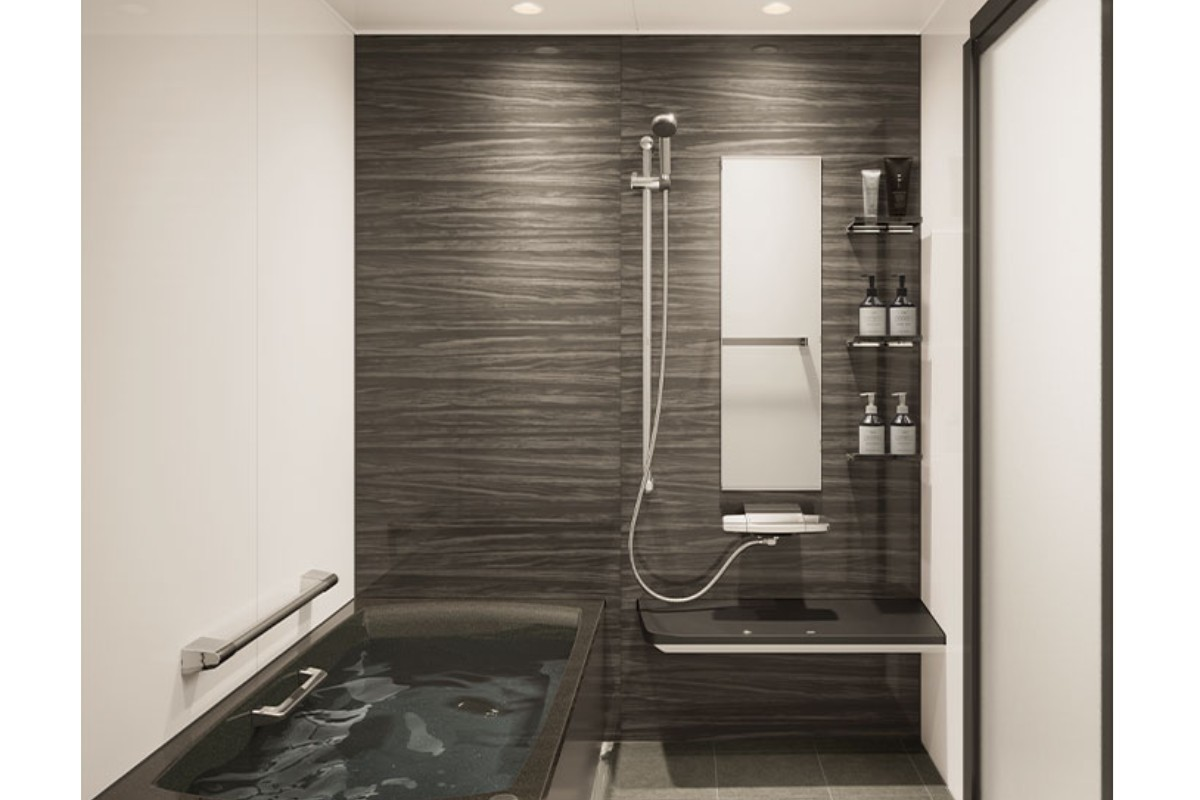
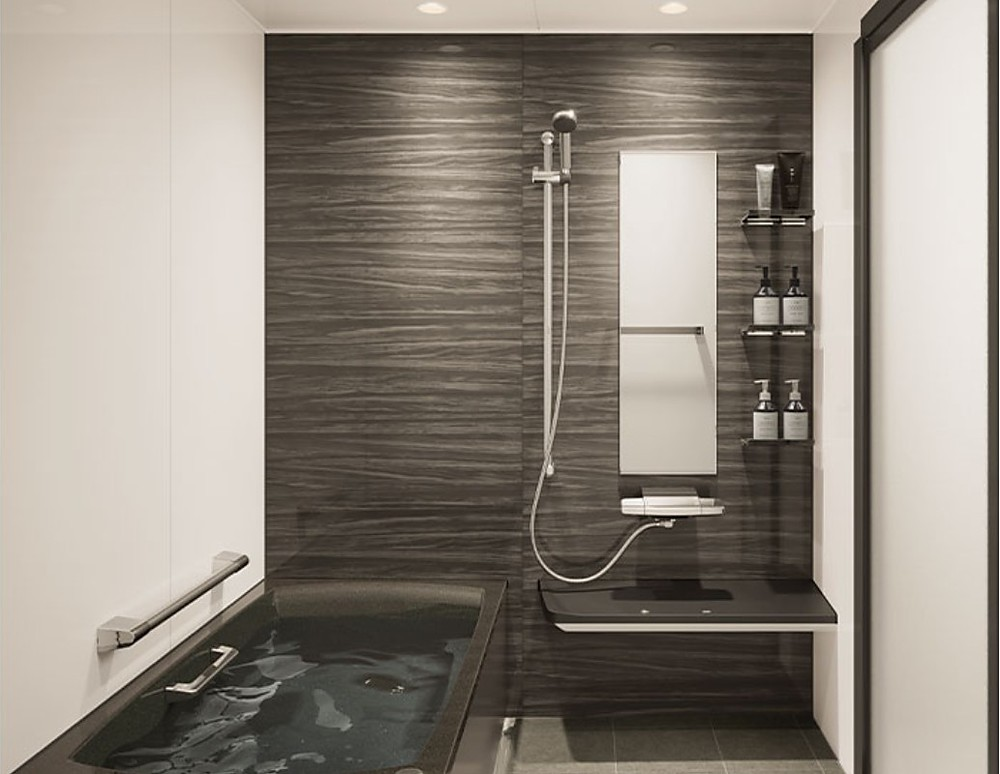
調整

diff --git a/assets/css/product.css b/assets/css/product.css
@@ -778,6 +778,9 @@
 .p-cat__card:hover{ transform:translateY(-2px); box-shadow:0 10px 24px rgba(0,0,0,.10); }
 .p-cat__cardph{ position:relative; background:#f4f4f4; }
 .p-cat__cardph img{ width:100%; height:auto; aspect-ratio:3/2; object-fit:cover; display:block; }
+/* お風呂の写真は縦長のものが多く、真ん中で切ると浴槽が隠れてしまうので、
+   一覧のカードだけ写真の下側を見せるようにしています。 */
+body.term-bathroom .p-cat__cardph img{ object-position:center bottom; }
 .p-cat__cardgrade{
   position:absolute; left:10px; top:10px; z-index:1;
   background:var(--brand); color:#fff; border-radius:6px; padding:4px 10px;

diff --git a/wp/ymkrf-setup.php b/wp/ymkrf-setup.php
@@ -14,7 +14,7 @@
 
 if ( ! defined( 'ABSPATH' ) ) exit;
 
-define( 'YMKRF_SETUP_VER', '37' );
+define( 'YMKRF_SETUP_VER', '40' );
 
 /* キッチンの「ヤマキシ標準工事内容」。
    ホームページの一覧表（7項目）と、番号入りの図（8項目）の
@@ -189,6 +189,7 @@ add_action( 'init', function () {
 		$theme . '/granspa',
 		$theme . '/selevia',
 		$theme . '/sinla',
+		WP_CONTENT_DIR . '/themes/ymkrf/assets/img/works',
 		$dir,                 // 最後の受け皿（wp-content/ymkrf-import）
 	);
 
@@ -701,9 +702,14 @@ add_action( 'init', function () {
 	        この控えが無い＝古い版で登録された商品は、
 	        これまでどおり「空っぽの行があるか」で見分けます。
 	   ------------------------------------------------------------ */
-	$rebuild_keys = array( '_ymkrf_images', '_ymkrf_colors', '_ymkrf_tops', '_ymkrf_sinks', '_ymkrf_handles', '_ymkrf_specs', '_ymkrf_features', '_ymkrf_options' );
+	$rebuild_keys = array( '_ymkrf_images', '_ymkrf_colors', '_ymkrf_tops', '_ymkrf_sinks', '_ymkrf_c4', '_ymkrf_c5', '_ymkrf_c6', '_ymkrf_handles', '_ymkrf_specs', '_ymkrf_features', '_ymkrf_options' );
 
-	foreach ( array( 'rakuera', 'refit', 'sierra-s', 's-class', 'stedia', 'edel', 'classo', 'richelle', 'centro' ) as $slug ) {
+	foreach ( array(
+		/* キッチン */
+		'rakuera', 'refit', 'sierra-s', 's-class', 'stedia', 'edel', 'classo', 'richelle', 'centro',
+		/* ユニットバス */
+		'ofuroa', 'sazana-n', 'lidea-m', 'rakuvia', 'sazana-t', 'lidea-b', 'granspa', 'selevia', 'sinla',
+	) as $slug ) {
 
 		$p = get_page_by_path( $slug, OBJECT, 'ymkrf_product' );
 		if ( ! $p ) continue;
@@ -3666,6 +3672,32 @@ add_action( 'init', function () {
 		}
 	}
 
+
+	/* ------------------------------------------------------------
+	   3-k. 一覧の写真を横幅いっぱいにするため、メイン写真の左右の余白を
+	        切り落としたものに差し替えます（4商品）。
+	   ------------------------------------------------------------ */
+	$retrim = array(
+		'sazana-t' => array( 'sazanat-main.jpg', 'TOTO サザナ Tタイプ 1坪サイズ（ユニットバス）' ),
+		'lidea-b'  => array( 'lideab-main.jpg',  'LIXIL リデア Bタイプ 1坪サイズ（ユニットバス）' ),
+		'granspa'  => array( 'granspa-main.jpg', 'タカラスタンダード グランスパ 1坪サイズ（ユニットバス）' ),
+		'sinla'    => array( 'sinla-main.jpg',   'TOTO シンラ Dタイプ 1坪サイズ（ユニットバス）' ),
+	);
+	foreach ( $retrim as $slug => $info ) {
+		$tp = get_page_by_path( $slug, OBJECT, 'ymkrf_product' );
+		if ( ! $tp || get_post_meta( $tp->ID, '_ymkrf_main_ver', true ) === 'trim' ) continue;
+
+		$old = $img( $info[0] );
+		if ( $old ) wp_delete_attachment( $old, true );
+
+		$new = $img( $info[0], $info[1], true );
+		if ( $new ) {
+			set_post_thumbnail( $tp->ID, $new );
+			update_post_meta( $tp->ID, '_ymkrf_main_ver', 'trim' );
+			$log[] = get_the_title( $tp->ID ) . 'のメイン写真を、余白を切ったものに差し替えました';
+		}
+	}
+
 	/* ------------------------------------------------------------
 	   3-z. 価格の直し
 	        キッチンの標準工事費は、どの機種も一律240,000円（税込）です。
@@ -3810,6 +3842,95 @@ add_action( 'init', function () {
 			$log[] = '施工事例のサンプルを追加：' . $sm['title'];
 		}
 		update_option( 'ymkrf_works_sample', '1' );
+	}
+
+
+	/* ------------------------------------------------------------
+	   3-m. 施工事例の「部位」に、きちんとした名前の項目を用意します。
+	        （文字列だけで登録すると、名前が英語のままになるためです）
+	   ------------------------------------------------------------ */
+	if ( taxonomy_exists( 'ymkrf_works_cat' ) ) {
+		foreach ( array( 'kitchen' => 'キッチン', 'bathroom' => 'お風呂' ) as $ws => $wn ) {
+			if ( ! term_exists( $ws, 'ymkrf_works_cat' ) ) {
+				wp_insert_term( $wn, 'ymkrf_works_cat', array( 'slug' => $ws ) );
+			}
+		}
+	}
+
+	/* ------------------------------------------------------------
+	   3-n. お風呂の施工事例サンプルを3件つくります（見え方の確認用）
+	        本番の記事を入れたら、この3件は削除してください。
+	   ------------------------------------------------------------ */
+	if ( post_type_exists( 'ymkrf_works' ) && get_option( 'ymkrf_works_sample_bath' ) !== '1' ) {
+
+		$bsamples = array(
+			array(
+				'title' => '【サンプル】在来のお風呂を、あたたかいユニットバスに',
+				'slug'  => 'sample-bath-01',
+				'area'  => '野々市市',
+				'price' => '150万円',
+				'days'  => '5日',
+				'img'   => 'works-bath-01.jpg',
+				'text'  => "冬の寒さがお悩みでした。断熱浴槽のユニットバスに入れ替え、浴室の内窓と外壁の補修もあわせて行いました。
+
+※これは表示確認用のサンプル記事です。",
+			),
+			array(
+				'title' => '【サンプル】古くなったユニットバスを、お手入れのラクな仕様に',
+				'slug'  => 'sample-bath-02',
+				'area'  => '加賀市',
+				'price' => '70万円',
+				'days'  => '5日',
+				'img'   => 'works-bath-02.jpg',
+				'text'  => "床の汚れと目地のカビがご負担でした。乾きやすい床と、目地の少ないパネルに替えています。
+
+※これは表示確認用のサンプル記事です。",
+			),
+			array(
+				'title' => '【サンプル】在来浴室からユニットバスへ。洗面脱衣場とトイレも',
+				'slug'  => 'sample-bath-03',
+				'area'  => '福井市',
+				'price' => '164万円',
+				'days'  => '7日',
+				'img'   => 'works-bath-03.jpg',
+				'text'  => "水まわりをまとめてご相談いただきました。お風呂・洗面脱衣場・トイレを一度に工事し、動線も整えています。
+
+※これは表示確認用のサンプル記事です。",
+			),
+		);
+
+		foreach ( $bsamples as $sm ) {
+			if ( get_page_by_path( $sm['slug'], OBJECT, 'ymkrf_works' ) ) continue;
+
+			$wid = wp_insert_post( array(
+				'post_type'    => 'ymkrf_works',
+				'post_status'  => 'publish',
+				'post_title'   => $sm['title'],
+				'post_name'    => $sm['slug'],
+				'post_content' => $sm['text'],
+				'post_excerpt' => mb_substr( strtok( $sm['text'], "\n" ), 0, 80 ),
+			) );
+			if ( ! $wid || is_wp_error( $wid ) ) continue;
+
+			wp_set_object_terms( $wid, 'bathroom', 'ymkrf_works_cat' );
+
+			if ( taxonomy_exists( 'ymkrf_works_area' ) ) {
+				$at = term_exists( $sm['area'], 'ymkrf_works_area' );
+				if ( ! $at ) $at = wp_insert_term( $sm['area'], 'ymkrf_works_area' );
+				if ( ! is_wp_error( $at ) ) {
+					wp_set_object_terms( $wid, (int) $at['term_id'], 'ymkrf_works_area' );
+				}
+			}
+
+			update_post_meta( $wid, '_ymkrf_price',  $sm['price'] );
+			update_post_meta( $wid, '_ymkrf_period', $sm['days'] );
+
+			$mid = $img( $sm['img'] );
+			if ( $mid ) set_post_thumbnail( $wid, $mid );
+
+			$log[] = 'お風呂の施工事例サンプルを追加：' . $sm['title'];
+		}
+		update_option( 'ymkrf_works_sample_bath', '1' );
 	}
 
 	/* ------------------------------------------------------------

diff --git a/wp/functions-product.php b/wp/functions-product.php
@@ -708,6 +708,33 @@ function ymkrf_product_data( $post_id = null ) {
 endif;
 
 /**
+ * カテゴリの呼び名。コラム・施工事例の見出しなどに使います。
+ * 「お風呂」だと硬いので、ページ上では「ユニットバス」と呼びます。
+ */
+if ( ! function_exists( 'ymkrf_cat_label' ) ) :
+function ymkrf_cat_label( $slug, $fallback = '' ) {
+	$map = array(
+		'kitchen'  => 'キッチン',
+		'bathroom' => 'ユニットバス',
+	);
+	return isset( $map[ $slug ] ) ? $map[ $slug ] : $fallback;
+}
+endif;
+
+/**
+ * 商品一覧の見出し。カテゴリごとに呼び方を変えます。
+ */
+if ( ! function_exists( 'ymkrf_cat_listtitle' ) ) :
+function ymkrf_cat_listtitle( $slug, $fallback = '商品' ) {
+	$map = array(
+		'kitchen'  => 'キッチンマルシェの商品一覧',
+		'bathroom' => 'ユニットバス商品一覧',
+	);
+	return isset( $map[ $slug ] ) ? $map[ $slug ] : $fallback . 'の商品一覧';
+}
+endif;
+
+/**
  * カテゴリごとのブランド名。「グレードUP」の見出しなどに使います。
  * ここに書いていないカテゴリは「〇〇マルシェ」になります。
  */

diff --git a/wp/taxonomy-ymkrf_product_cat.php b/wp/taxonomy-ymkrf_product_cat.php
@@ -512,7 +512,7 @@ if ( $show_worry ) :
 <!-- =========== 商品一覧 =========== -->
 <section class="l-section" id="products">
   <div class="l-wrap">
-    <h2 class="p-prd__bar"><?php echo esc_html( $name ); ?>マルシェの商品一覧</h2>
+    <h2 class="p-prd__bar"><?php echo esc_html( ymkrf_cat_listtitle( $slug, $name ) ); ?></h2>
 
     <?php if ( $q->have_posts() ) : ?>
 
@@ -568,7 +568,7 @@ if ( $show_worry ) :
      1件も無いときは、このかたまりごと出ません。 -->
 <?php
 if ( function_exists( 'ymkrf_column_section' ) ) {
-	ymkrf_column_section( $slug, $name, 3 );
+	ymkrf_column_section( $slug, ymkrf_cat_label( $slug, $name ), 3 );
 }
 ?>
 
@@ -577,7 +577,7 @@ if ( function_exists( 'ymkrf_column_section' ) ) {
      ここに新しい順で3件出ます。1件も無いときは出ません。 -->
 <?php
 if ( function_exists( 'ymkrf_works_section' ) ) {
-	ymkrf_works_section( $slug, $name, 3 );
+	ymkrf_works_section( $slug, ymkrf_cat_label( $slug, $name ), 3 );
 }
 ?>
 
